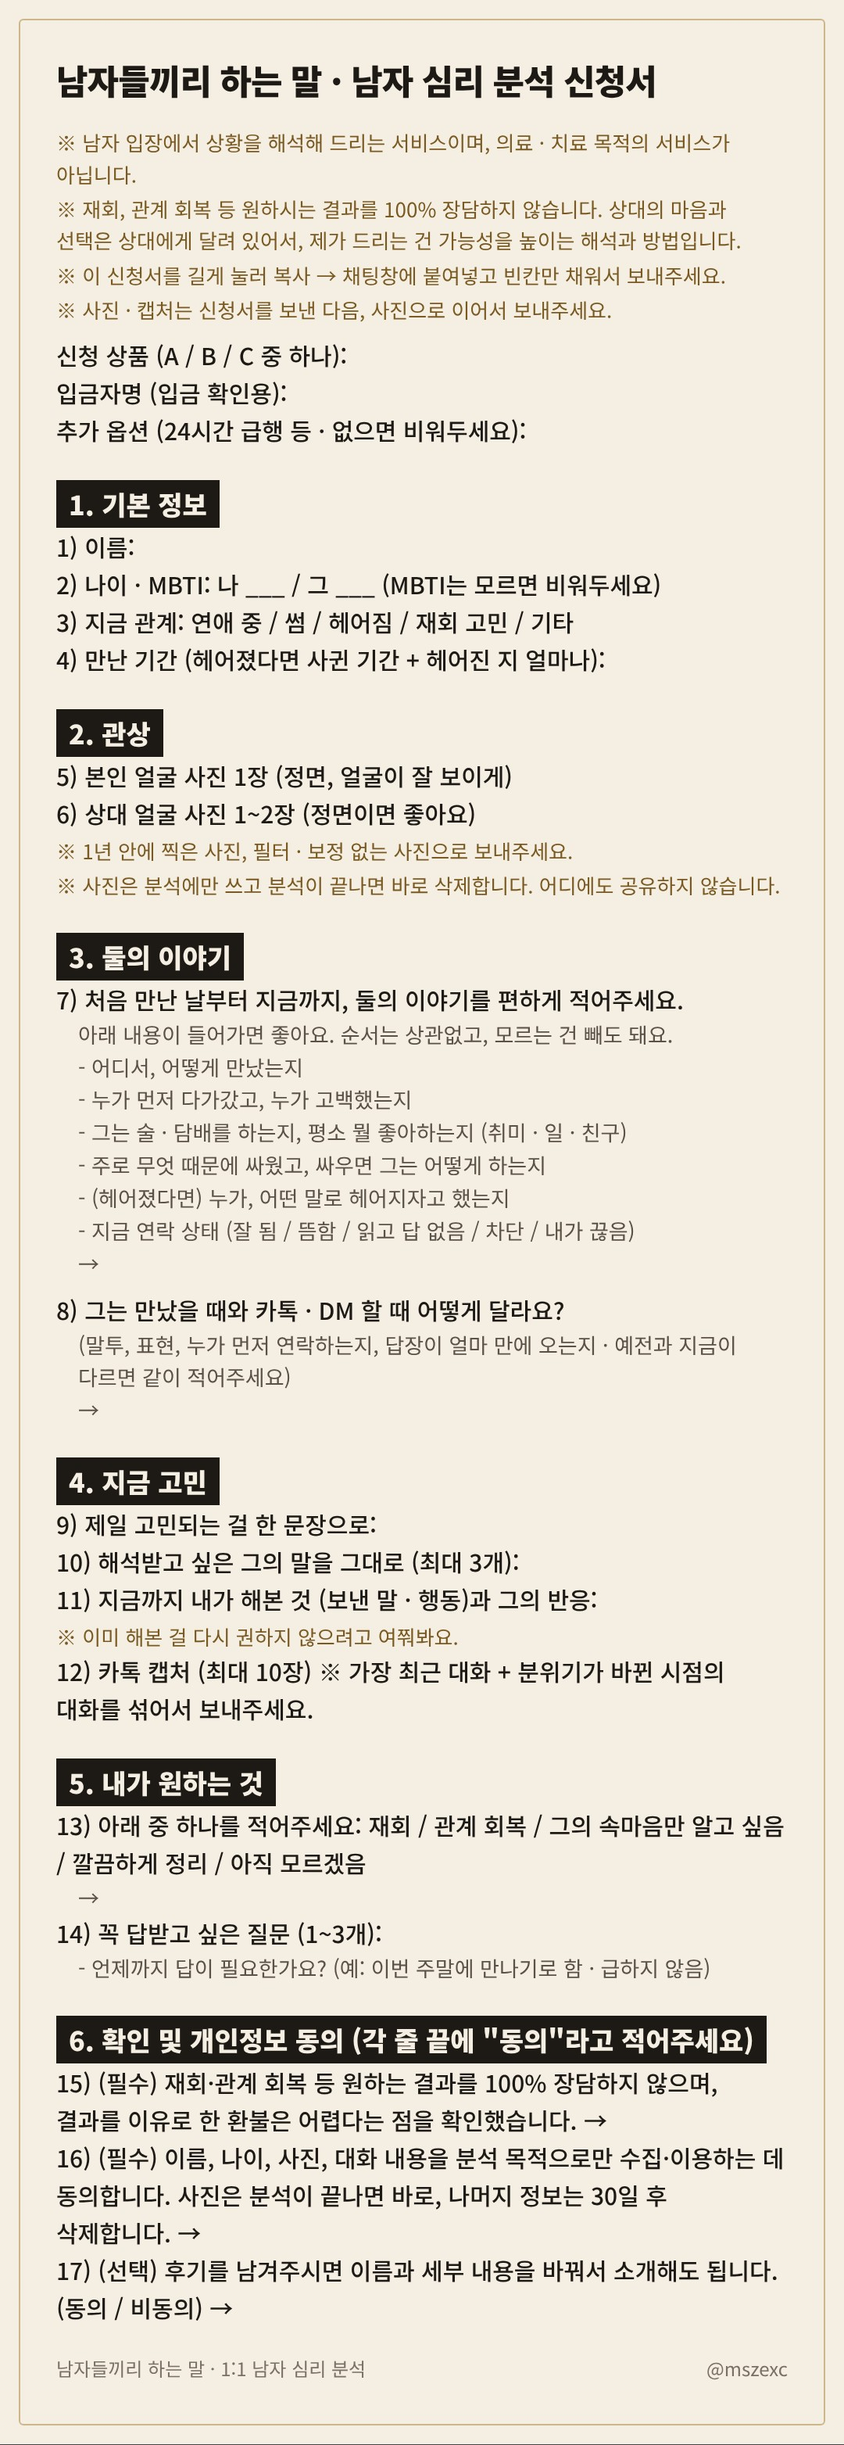
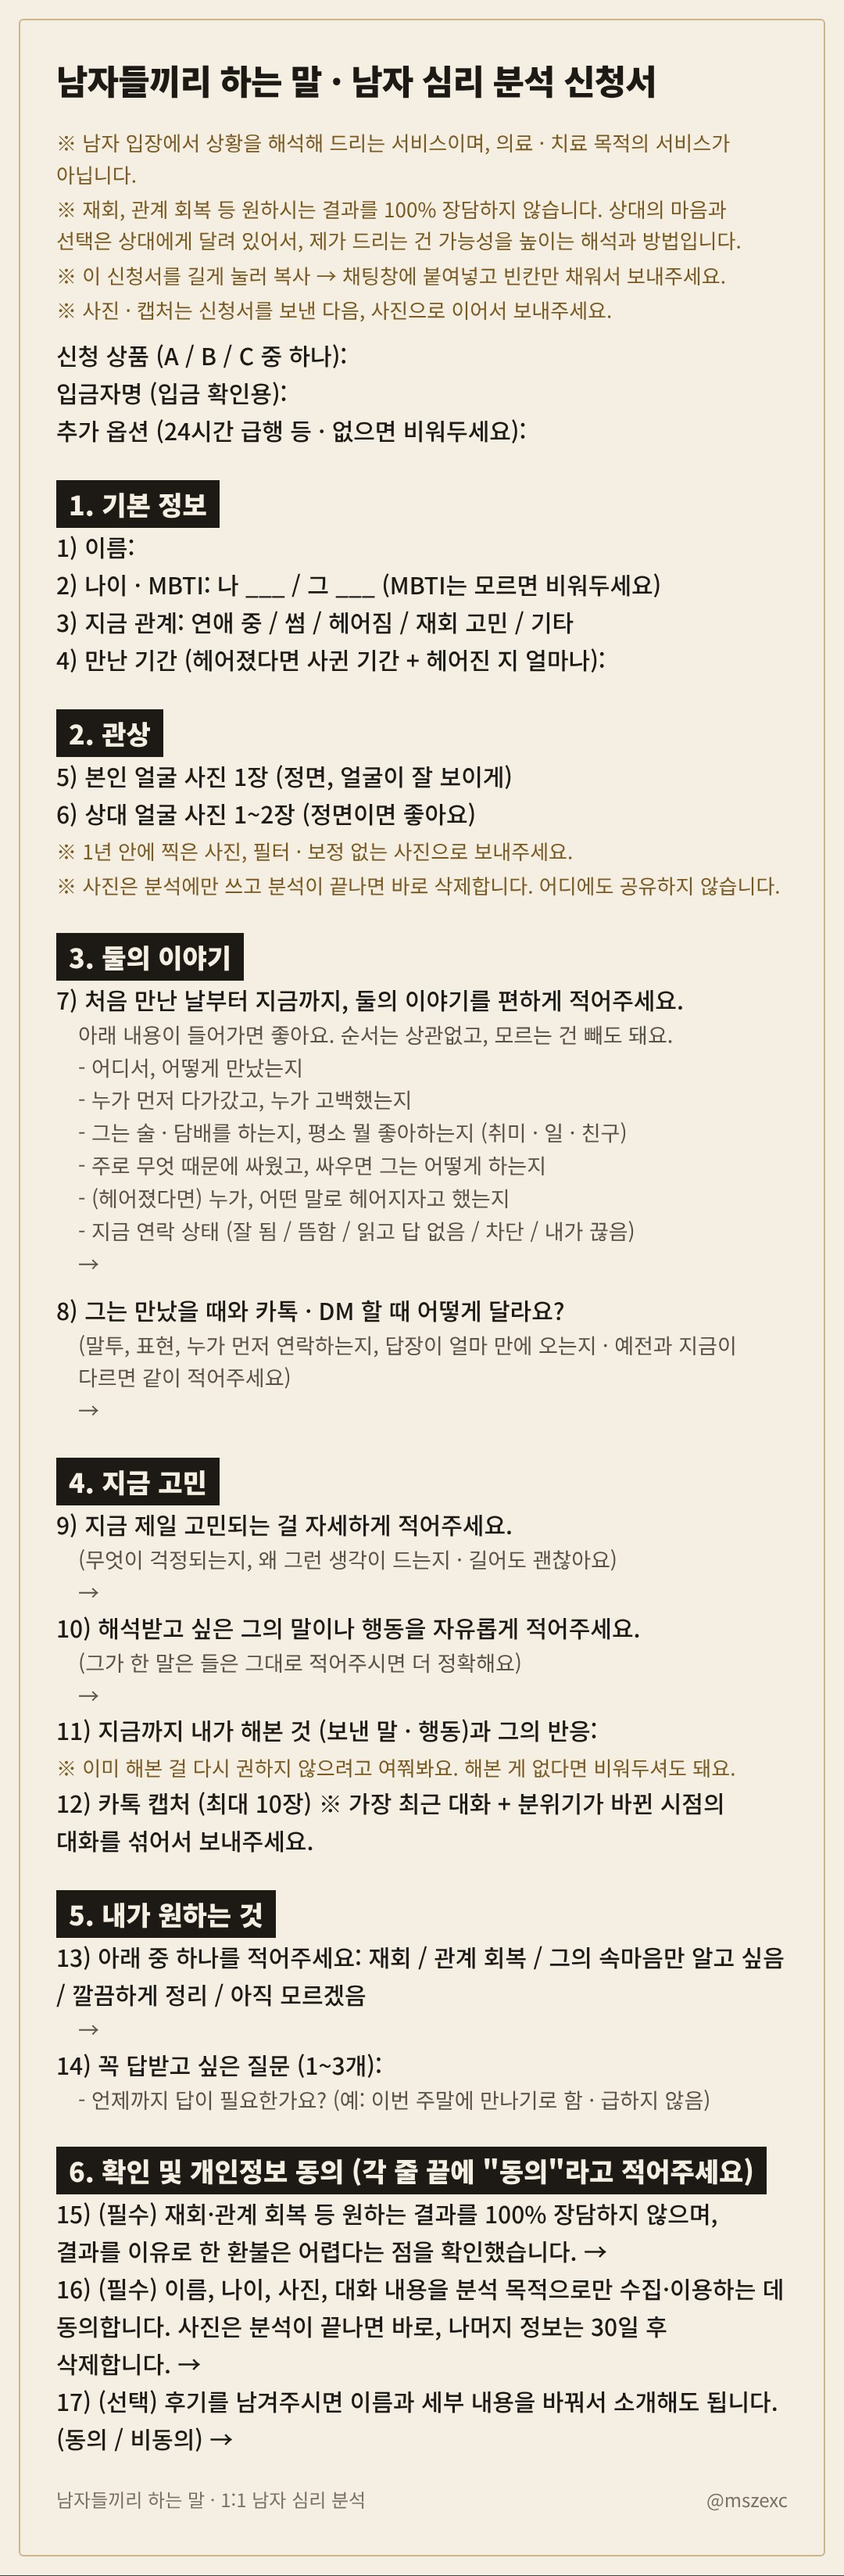
Consult form section 4: detailed worry, free-form his words, optional tried
Claude-Session: https://claude.ai/code/session_01J9i5yL8MFhQ5W67Sx3nDW6

diff --git a/consult/kakao_menu/docs.html b/consult/kakao_menu/docs.html
@@ -27,6 +27,6 @@
 <section class="k" id="card_form"><div class="top">입금 확인 후 보내드려요</div><div class="ti">신청서 · 이것만 준비하세요</div><ul><li>얼굴 사진 (나 1장 · 그 1~2장)</li><li>둘의 이야기 + 그의 카톡 · 만날 때 모습</li><li>카톡 캡처 10장 · 꼭 답받고 싶은 질문</li></ul><div class="ft"><span>남자들끼리 하는 말 · 1:1 남자 심리 분석</span><span>@mszexc</span></div></section>
 <section class="k" id="card_report"><div class="top">72시간 안에 서면으로</div><div class="ti">결과물은 이렇게 드려요</div><ul><li>A · 성향 / 말 번역 / 마음 단계 / 갈등 이유</li><li>B · A + 상황별 대본 4종 + 피드백 2회</li><li>C · B + 4주 점검 · 첨삭 주 3건 · 정리 리포트</li></ul><div class="ft"><span>남자들끼리 하는 말 · 1:1 남자 심리 분석</span><span>@mszexc</span></div></section>
 <section class="doc" id="doc_guide"><div class="ttl">남자들끼리 하는 말 · 남자 심리 분석</div><div class="sp"></div><div class="ln">남자가 직접, 그 사람의 마음을 번역해 드립니다.</div><div class="ln">관상 · 카톡 · 상황을 함께 보고, 남자 입장에서 답을 드려요.</div><div class="sp"></div><div class="sec">A. 남자 심리 분석 · 50,000원</div><div class="ln">그가 왜 그러는지 알고 싶은 분</div><div class="li">질문지 + 카톡 캡처 10장 + 관상</div><div class="li">서면 분석 리포트 (그의 성향 / 말 번역 / 지금 마음 단계 / 갈등의 진짜 이유)</div><div class="li">추가 질문 1회 · 72시간 안에 전달</div><div class="sp"></div><div class="sec">B. 심리 분석 + 마음을 움직이는 대본 · 100,000원  ★추천</div><div class="ln">&quot;그래서 뭐라고 보내야 해?&quot;까지 알고 싶은 분</div><div class="li">A의 모든 내용</div><div class="li">상황별 대본 4종 (첫 연락 / 답장 왔을 때 / 만났을 때 / 반응 없을 때)</div><div class="li">7일 안 피드백 2회 (1회 = 메시지 1개 + 캡처 3장)</div><div class="sp"></div><div class="sec">C. 재회·관계 회복 4주 플랜 · 390,000원  (월 3명 한정)</div><div class="ln">끝까지 같이 가고 싶은 분</div><div class="li">B의 모든 내용</div><div class="li">4주 동안 주 1회 점검 + 다음 대본</div><div class="li">보내기 전 카톡 첨삭 주 3건 · 4주 뒤 정리 리포트</div><div class="sp"></div><div class="sec">추가 옵션 (신청자 전용)</div><div class="li">카톡 첨삭 1건 20,000원 · 3건 묶음 50,000원</div><div class="li">추가 질문 1회 20,000원</div><div class="li">24시간 급행 +30,000원 (하루 1건)</div><div class="li">답장 왔을 때 긴급 첨삭 (6시간 안) 30,000원 (하루 1건)</div><div class="note">※ 기한은 채팅 가능 시간 안에서 세요. 급행은 신청서 · 사진 · 캡처가 다 도착한 때부터 24시간이에요.</div><div class="sp"></div><div class="sec">혜택</div><div class="li">오픈 첫 주: B를 신청하신 첫 10분께 카톡 첨삭 2건을 함께 드려요.</div><div class="li">다시 신청하실 때: 결과물을 받고 30일 안에 다시 신청하시면 추가 질문 1회를 드려요.</div><div class="sp"></div><div class="sec">신청 방법</div><div class="ln">1) 원하는 상품을 채팅으로 알려주세요</div><div class="ln">2) 입금 확인 후 신청서를 보내드려요</div><div class="ln">3) 신청서 + 사진 + 캡처를 보내주시면 분석을 시작합니다</div><div class="sp"></div><div class="note">※ 남자 입장에서 상황을 해석해 드리는 서비스이며, 의료 · 치료 목적의 서비스가 아닙니다.</div><div class="note">※ 재회, 관계 회복 등 원하시는 결과를 100% 장담하지 않습니다. 상대의 마음과 선택은 상대에게 달려 있어서, 제가 드리는 건 가능성을 높이는 해석과 방법입니다.</div><div class="note">※ 분석 작성 시작 전에는 전액 환불, 시작 후에는 환불이 어렵습니다.</div><div class="note">※ 재회 등 결과를 이유로 한 환불은 어렵습니다.</div><div class="ft2"><span>남자들끼리 하는 말 · 1:1 남자 심리 분석</span><span>@mszexc</span></div></section>
-<section class="doc" id="doc_form"><div class="ttl">남자들끼리 하는 말 · 남자 심리 분석 신청서</div><div class="sp"></div><div class="note">※ 남자 입장에서 상황을 해석해 드리는 서비스이며, 의료 · 치료 목적의 서비스가 아닙니다.</div><div class="note">※ 재회, 관계 회복 등 원하시는 결과를 100% 장담하지 않습니다. 상대의 마음과 선택은 상대에게 달려 있어서, 제가 드리는 건 가능성을 높이는 해석과 방법입니다.</div><div class="note">※ 이 신청서를 길게 눌러 복사 → 채팅창에 붙여넣고 빈칸만 채워서 보내주세요.</div><div class="note">※ 사진 · 캡처는 신청서를 보낸 다음, 사진으로 이어서 보내주세요.</div><div class="sp"></div><div class="ln">신청 상품 (A / B / C 중 하나):</div><div class="ln">입금자명 (입금 확인용):</div><div class="ln">추가 옵션 (24시간 급행 등 · 없으면 비워두세요):</div><div class="sp"></div><div class="sec">1. 기본 정보</div><div class="ln">1) 이름:</div><div class="ln">2) 나이 · MBTI: 나 ___ / 그 ___ (MBTI는 모르면 비워두세요)</div><div class="ln">3) 지금 관계: 연애 중 / 썸 / 헤어짐 / 재회 고민 / 기타</div><div class="ln">4) 만난 기간 (헤어졌다면 사귄 기간 + 헤어진 지 얼마나):</div><div class="sp"></div><div class="sec">2. 관상</div><div class="ln">5) 본인 얼굴 사진 1장 (정면, 얼굴이 잘 보이게)</div><div class="ln">6) 상대 얼굴 사진 1~2장 (정면이면 좋아요)</div><div class="note">※ 1년 안에 찍은 사진, 필터 · 보정 없는 사진으로 보내주세요.</div><div class="note">※ 사진은 분석에만 쓰고 분석이 끝나면 바로 삭제합니다. 어디에도 공유하지 않습니다.</div><div class="sp"></div><div class="sec">3. 둘의 이야기</div><div class="ln">7) 처음 만난 날부터 지금까지, 둘의 이야기를 편하게 적어주세요.</div><div class="sub">아래 내용이 들어가면 좋아요. 순서는 상관없고, 모르는 건 빼도 돼요.</div><div class="sub">- 어디서, 어떻게 만났는지</div><div class="sub">- 누가 먼저 다가갔고, 누가 고백했는지</div><div class="sub">- 그는 술 · 담배를 하는지, 평소 뭘 좋아하는지 (취미 · 일 · 친구)</div><div class="sub">- 주로 무엇 때문에 싸웠고, 싸우면 그는 어떻게 하는지</div><div class="sub">- (헤어졌다면) 누가, 어떤 말로 헤어지자고 했는지</div><div class="sub">- 지금 연락 상태 (잘 됨 / 뜸함 / 읽고 답 없음 / 차단 / 내가 끊음)</div><div class="sub">→</div><div class="sp"></div><div class="ln">8) 그는 만났을 때와 카톡 · DM 할 때 어떻게 달라요?</div><div class="sub">(말투, 표현, 누가 먼저 연락하는지, 답장이 얼마 만에 오는지 · 예전과 지금이 다르면 같이 적어주세요)</div><div class="sub">→</div><div class="sp"></div><div class="sec">4. 지금 고민</div><div class="ln">9) 제일 고민되는 걸 한 문장으로:</div><div class="ln">10) 해석받고 싶은 그의 말을 그대로 (최대 3개):</div><div class="ln">11) 지금까지 내가 해본 것 (보낸 말 · 행동)과 그의 반응:</div><div class="note">※ 이미 해본 걸 다시 권하지 않으려고 여쭤봐요.</div><div class="ln">12) 카톡 캡처 (최대 10장) ※ 가장 최근 대화 + 분위기가 바뀐 시점의 대화를 섞어서 보내주세요.</div><div class="sp"></div><div class="sec">5. 내가 원하는 것</div><div class="ln">13) 아래 중 하나를 적어주세요: 재회 / 관계 회복 / 그의 속마음만 알고 싶음 / 깔끔하게 정리 / 아직 모르겠음</div><div class="sub">→</div><div class="ln">14) 꼭 답받고 싶은 질문 (1~3개):</div><div class="sub">- 언제까지 답이 필요한가요? (예: 이번 주말에 만나기로 함 · 급하지 않음)</div><div class="sp"></div><div class="sec">6. 확인 및 개인정보 동의 (각 줄 끝에 &quot;동의&quot;라고 적어주세요)</div><div class="ln">15) (필수) 재회·관계 회복 등 원하는 결과를 100% 장담하지 않으며, 결과를 이유로 한 환불은 어렵다는 점을 확인했습니다. →</div><div class="ln">16) (필수) 이름, 나이, 사진, 대화 내용을 분석 목적으로만 수집·이용하는 데 동의합니다. 사진은 분석이 끝나면 바로, 나머지 정보는 30일 후 삭제합니다. →</div><div class="ln">17) (선택) 후기를 남겨주시면 이름과 세부 내용을 바꿔서 소개해도 됩니다. (동의 / 비동의) →</div><div class="ft2"><span>남자들끼리 하는 말 · 1:1 남자 심리 분석</span><span>@mszexc</span></div></section>
-<section class="doc" id="doc_report"><div class="ttl">결과물은 이렇게 드려요</div><div class="sp"></div><div class="sec">A · 남자 심리 분석 리포트</div><div class="ln">1. 관상으로 본 그의 연애 성향</div><div class="ln">2. 그의 말 번역 (신청서 10번)</div><div class="ln">3. 지금 그의 마음 단계 (지친 중 / 흔들리는 중 / 정리하는 중)</div><div class="ln">4. 갈등이 반복되는 진짜 이유</div><div class="ln">5. 꼭 답받고 싶은 질문에 대한 답</div><div class="sp"></div><div class="sec">B · A + 마음을 움직이는 대본 4종</div><div class="ln">1. 첫 연락: 첫 문장, 보낼 시간대</div><div class="ln">2. 답장이 왔을 때: 반응별로 이어갈 말</div><div class="ln">3. 만났을 때·통화할 때: 꺼낼 말, 피할 말</div><div class="ln">4. 반응이 없거나 거절당했을 때: 멈출 타이밍과 마지막 한 줄</div><div class="ln">→ 7일 안에 반응을 보내주면 다음 한 수 (2회)</div><div class="sp"></div><div class="sec">C · 4주 플랜</div><div class="ln">1주차: B 전체 + 연락 타이밍 설계</div><div class="ln">2~4주차: 주 1회 점검 → 다음 대본 / 카톡 첨삭 주 3건</div><div class="ln">4주 뒤: 정리 리포트 (무엇이 바뀌었고, 다음은 무엇인지)</div><div class="ft2"><span>남자들끼리 하는 말 · 1:1 남자 심리 분석</span><span>@mszexc</span></div></section>
+<section class="doc" id="doc_form"><div class="ttl">남자들끼리 하는 말 · 남자 심리 분석 신청서</div><div class="sp"></div><div class="note">※ 남자 입장에서 상황을 해석해 드리는 서비스이며, 의료 · 치료 목적의 서비스가 아닙니다.</div><div class="note">※ 재회, 관계 회복 등 원하시는 결과를 100% 장담하지 않습니다. 상대의 마음과 선택은 상대에게 달려 있어서, 제가 드리는 건 가능성을 높이는 해석과 방법입니다.</div><div class="note">※ 이 신청서를 길게 눌러 복사 → 채팅창에 붙여넣고 빈칸만 채워서 보내주세요.</div><div class="note">※ 사진 · 캡처는 신청서를 보낸 다음, 사진으로 이어서 보내주세요.</div><div class="sp"></div><div class="ln">신청 상품 (A / B / C 중 하나):</div><div class="ln">입금자명 (입금 확인용):</div><div class="ln">추가 옵션 (24시간 급행 등 · 없으면 비워두세요):</div><div class="sp"></div><div class="sec">1. 기본 정보</div><div class="ln">1) 이름:</div><div class="ln">2) 나이 · MBTI: 나 ___ / 그 ___ (MBTI는 모르면 비워두세요)</div><div class="ln">3) 지금 관계: 연애 중 / 썸 / 헤어짐 / 재회 고민 / 기타</div><div class="ln">4) 만난 기간 (헤어졌다면 사귄 기간 + 헤어진 지 얼마나):</div><div class="sp"></div><div class="sec">2. 관상</div><div class="ln">5) 본인 얼굴 사진 1장 (정면, 얼굴이 잘 보이게)</div><div class="ln">6) 상대 얼굴 사진 1~2장 (정면이면 좋아요)</div><div class="note">※ 1년 안에 찍은 사진, 필터 · 보정 없는 사진으로 보내주세요.</div><div class="note">※ 사진은 분석에만 쓰고 분석이 끝나면 바로 삭제합니다. 어디에도 공유하지 않습니다.</div><div class="sp"></div><div class="sec">3. 둘의 이야기</div><div class="ln">7) 처음 만난 날부터 지금까지, 둘의 이야기를 편하게 적어주세요.</div><div class="sub">아래 내용이 들어가면 좋아요. 순서는 상관없고, 모르는 건 빼도 돼요.</div><div class="sub">- 어디서, 어떻게 만났는지</div><div class="sub">- 누가 먼저 다가갔고, 누가 고백했는지</div><div class="sub">- 그는 술 · 담배를 하는지, 평소 뭘 좋아하는지 (취미 · 일 · 친구)</div><div class="sub">- 주로 무엇 때문에 싸웠고, 싸우면 그는 어떻게 하는지</div><div class="sub">- (헤어졌다면) 누가, 어떤 말로 헤어지자고 했는지</div><div class="sub">- 지금 연락 상태 (잘 됨 / 뜸함 / 읽고 답 없음 / 차단 / 내가 끊음)</div><div class="sub">→</div><div class="sp"></div><div class="ln">8) 그는 만났을 때와 카톡 · DM 할 때 어떻게 달라요?</div><div class="sub">(말투, 표현, 누가 먼저 연락하는지, 답장이 얼마 만에 오는지 · 예전과 지금이 다르면 같이 적어주세요)</div><div class="sub">→</div><div class="sp"></div><div class="sec">4. 지금 고민</div><div class="ln">9) 지금 제일 고민되는 걸 자세하게 적어주세요.</div><div class="sub">(무엇이 걱정되는지, 왜 그런 생각이 드는지 · 길어도 괜찮아요)</div><div class="sub">→</div><div class="ln">10) 해석받고 싶은 그의 말이나 행동을 자유롭게 적어주세요.</div><div class="sub">(그가 한 말은 들은 그대로 적어주시면 더 정확해요)</div><div class="sub">→</div><div class="ln">11) 지금까지 내가 해본 것 (보낸 말 · 행동)과 그의 반응:</div><div class="note">※ 이미 해본 걸 다시 권하지 않으려고 여쭤봐요. 해본 게 없다면 비워두셔도 돼요.</div><div class="ln">12) 카톡 캡처 (최대 10장) ※ 가장 최근 대화 + 분위기가 바뀐 시점의 대화를 섞어서 보내주세요.</div><div class="sp"></div><div class="sec">5. 내가 원하는 것</div><div class="ln">13) 아래 중 하나를 적어주세요: 재회 / 관계 회복 / 그의 속마음만 알고 싶음 / 깔끔하게 정리 / 아직 모르겠음</div><div class="sub">→</div><div class="ln">14) 꼭 답받고 싶은 질문 (1~3개):</div><div class="sub">- 언제까지 답이 필요한가요? (예: 이번 주말에 만나기로 함 · 급하지 않음)</div><div class="sp"></div><div class="sec">6. 확인 및 개인정보 동의 (각 줄 끝에 &quot;동의&quot;라고 적어주세요)</div><div class="ln">15) (필수) 재회·관계 회복 등 원하는 결과를 100% 장담하지 않으며, 결과를 이유로 한 환불은 어렵다는 점을 확인했습니다. →</div><div class="ln">16) (필수) 이름, 나이, 사진, 대화 내용을 분석 목적으로만 수집·이용하는 데 동의합니다. 사진은 분석이 끝나면 바로, 나머지 정보는 30일 후 삭제합니다. →</div><div class="ln">17) (선택) 후기를 남겨주시면 이름과 세부 내용을 바꿔서 소개해도 됩니다. (동의 / 비동의) →</div><div class="ft2"><span>남자들끼리 하는 말 · 1:1 남자 심리 분석</span><span>@mszexc</span></div></section>
+<section class="doc" id="doc_report"><div class="ttl">결과물은 이렇게 드려요</div><div class="sp"></div><div class="sec">A · 남자 심리 분석 리포트</div><div class="ln">1. 관상으로 본 그의 연애 성향</div><div class="ln">2. 그의 말 · 행동 번역 (신청서 10번)</div><div class="ln">3. 지금 그의 마음 단계 (지친 중 / 흔들리는 중 / 정리하는 중)</div><div class="ln">4. 갈등이 반복되는 진짜 이유</div><div class="ln">5. 꼭 답받고 싶은 질문에 대한 답</div><div class="sp"></div><div class="sec">B · A + 마음을 움직이는 대본 4종</div><div class="ln">1. 첫 연락: 첫 문장, 보낼 시간대</div><div class="ln">2. 답장이 왔을 때: 반응별로 이어갈 말</div><div class="ln">3. 만났을 때·통화할 때: 꺼낼 말, 피할 말</div><div class="ln">4. 반응이 없거나 거절당했을 때: 멈출 타이밍과 마지막 한 줄</div><div class="ln">→ 7일 안에 반응을 보내주면 다음 한 수 (2회)</div><div class="sp"></div><div class="sec">C · 4주 플랜</div><div class="ln">1주차: B 전체 + 연락 타이밍 설계</div><div class="ln">2~4주차: 주 1회 점검 → 다음 대본 / 카톡 첨삭 주 3건</div><div class="ln">4주 뒤: 정리 리포트 (무엇이 바뀌었고, 다음은 무엇인지)</div><div class="ft2"><span>남자들끼리 하는 말 · 1:1 남자 심리 분석</span><span>@mszexc</span></div></section>
 </body></html>

diff --git a/consult/menu.py b/consult/menu.py
@@ -108,10 +108,14 @@ FORM = '''[남자들끼리 하는 말 · 남자 심리 분석 신청서]
    →
 
 ■ 4. 지금 고민
-9) 제일 고민되는 걸 한 문장으로:
-10) 해석받고 싶은 그의 말을 그대로 (최대 3개):
+9) 지금 제일 고민되는 걸 자세하게 적어주세요.
+   (무엇이 걱정되는지, 왜 그런 생각이 드는지 · 길어도 괜찮아요)
+   →
+10) 해석받고 싶은 그의 말이나 행동을 자유롭게 적어주세요.
+   (그가 한 말은 들은 그대로 적어주시면 더 정확해요)
+   →
 11) 지금까지 내가 해본 것 (보낸 말 · 행동)과 그의 반응:
-   ※ 이미 해본 걸 다시 권하지 않으려고 여쭤봐요.
+   ※ 이미 해본 걸 다시 권하지 않으려고 여쭤봐요. 해본 게 없다면 비워두셔도 돼요.
 12) 카톡 캡처 (최대 10장) ※ 가장 최근 대화 + 분위기가 바뀐 시점의 대화를 섞어서 보내주세요.
 
 ■ 5. 내가 원하는 것
@@ -128,7 +132,7 @@ REPORT = '''[결과물 틀]
 
 A · 남자 심리 분석 리포트
 1. 관상으로 본 그의 연애 성향
-2. 그의 말 번역 (신청서 10번)
+2. 그의 말 · 행동 번역 (신청서 10번)
 3. 지금 그의 마음 단계 (지친 중 / 흔들리는 중 / 정리하는 중)
 4. 갈등이 반복되는 진짜 이유
 5. 꼭 답받고 싶은 질문에 대한 답

diff --git a/consult/menu.md b/consult/menu.md
@@ -130,10 +130,14 @@
    →
 
 ■ 4. 지금 고민
-9) 제일 고민되는 걸 한 문장으로:
-10) 해석받고 싶은 그의 말을 그대로 (최대 3개):
+9) 지금 제일 고민되는 걸 자세하게 적어주세요.
+   (무엇이 걱정되는지, 왜 그런 생각이 드는지 · 길어도 괜찮아요)
+   →
+10) 해석받고 싶은 그의 말이나 행동을 자유롭게 적어주세요.
+   (그가 한 말은 들은 그대로 적어주시면 더 정확해요)
+   →
 11) 지금까지 내가 해본 것 (보낸 말 · 행동)과 그의 반응:
-   ※ 이미 해본 걸 다시 권하지 않으려고 여쭤봐요.
+   ※ 이미 해본 걸 다시 권하지 않으려고 여쭤봐요. 해본 게 없다면 비워두셔도 돼요.
 12) 카톡 캡처 (최대 10장) ※ 가장 최근 대화 + 분위기가 바뀐 시점의 대화를 섞어서 보내주세요.
 
 ■ 5. 내가 원하는 것
@@ -154,7 +158,7 @@
 
 A · 남자 심리 분석 리포트
 1. 관상으로 본 그의 연애 성향
-2. 그의 말 번역 (신청서 18번)
+2. 그의 말 · 행동 번역 (신청서 10번)
 3. 지금 그의 마음 단계 (지친 중 / 흔들리는 중 / 정리하는 중)
 4. 갈등이 반복되는 진짜 이유
 5. 꼭 답받고 싶은 질문에 대한 답
